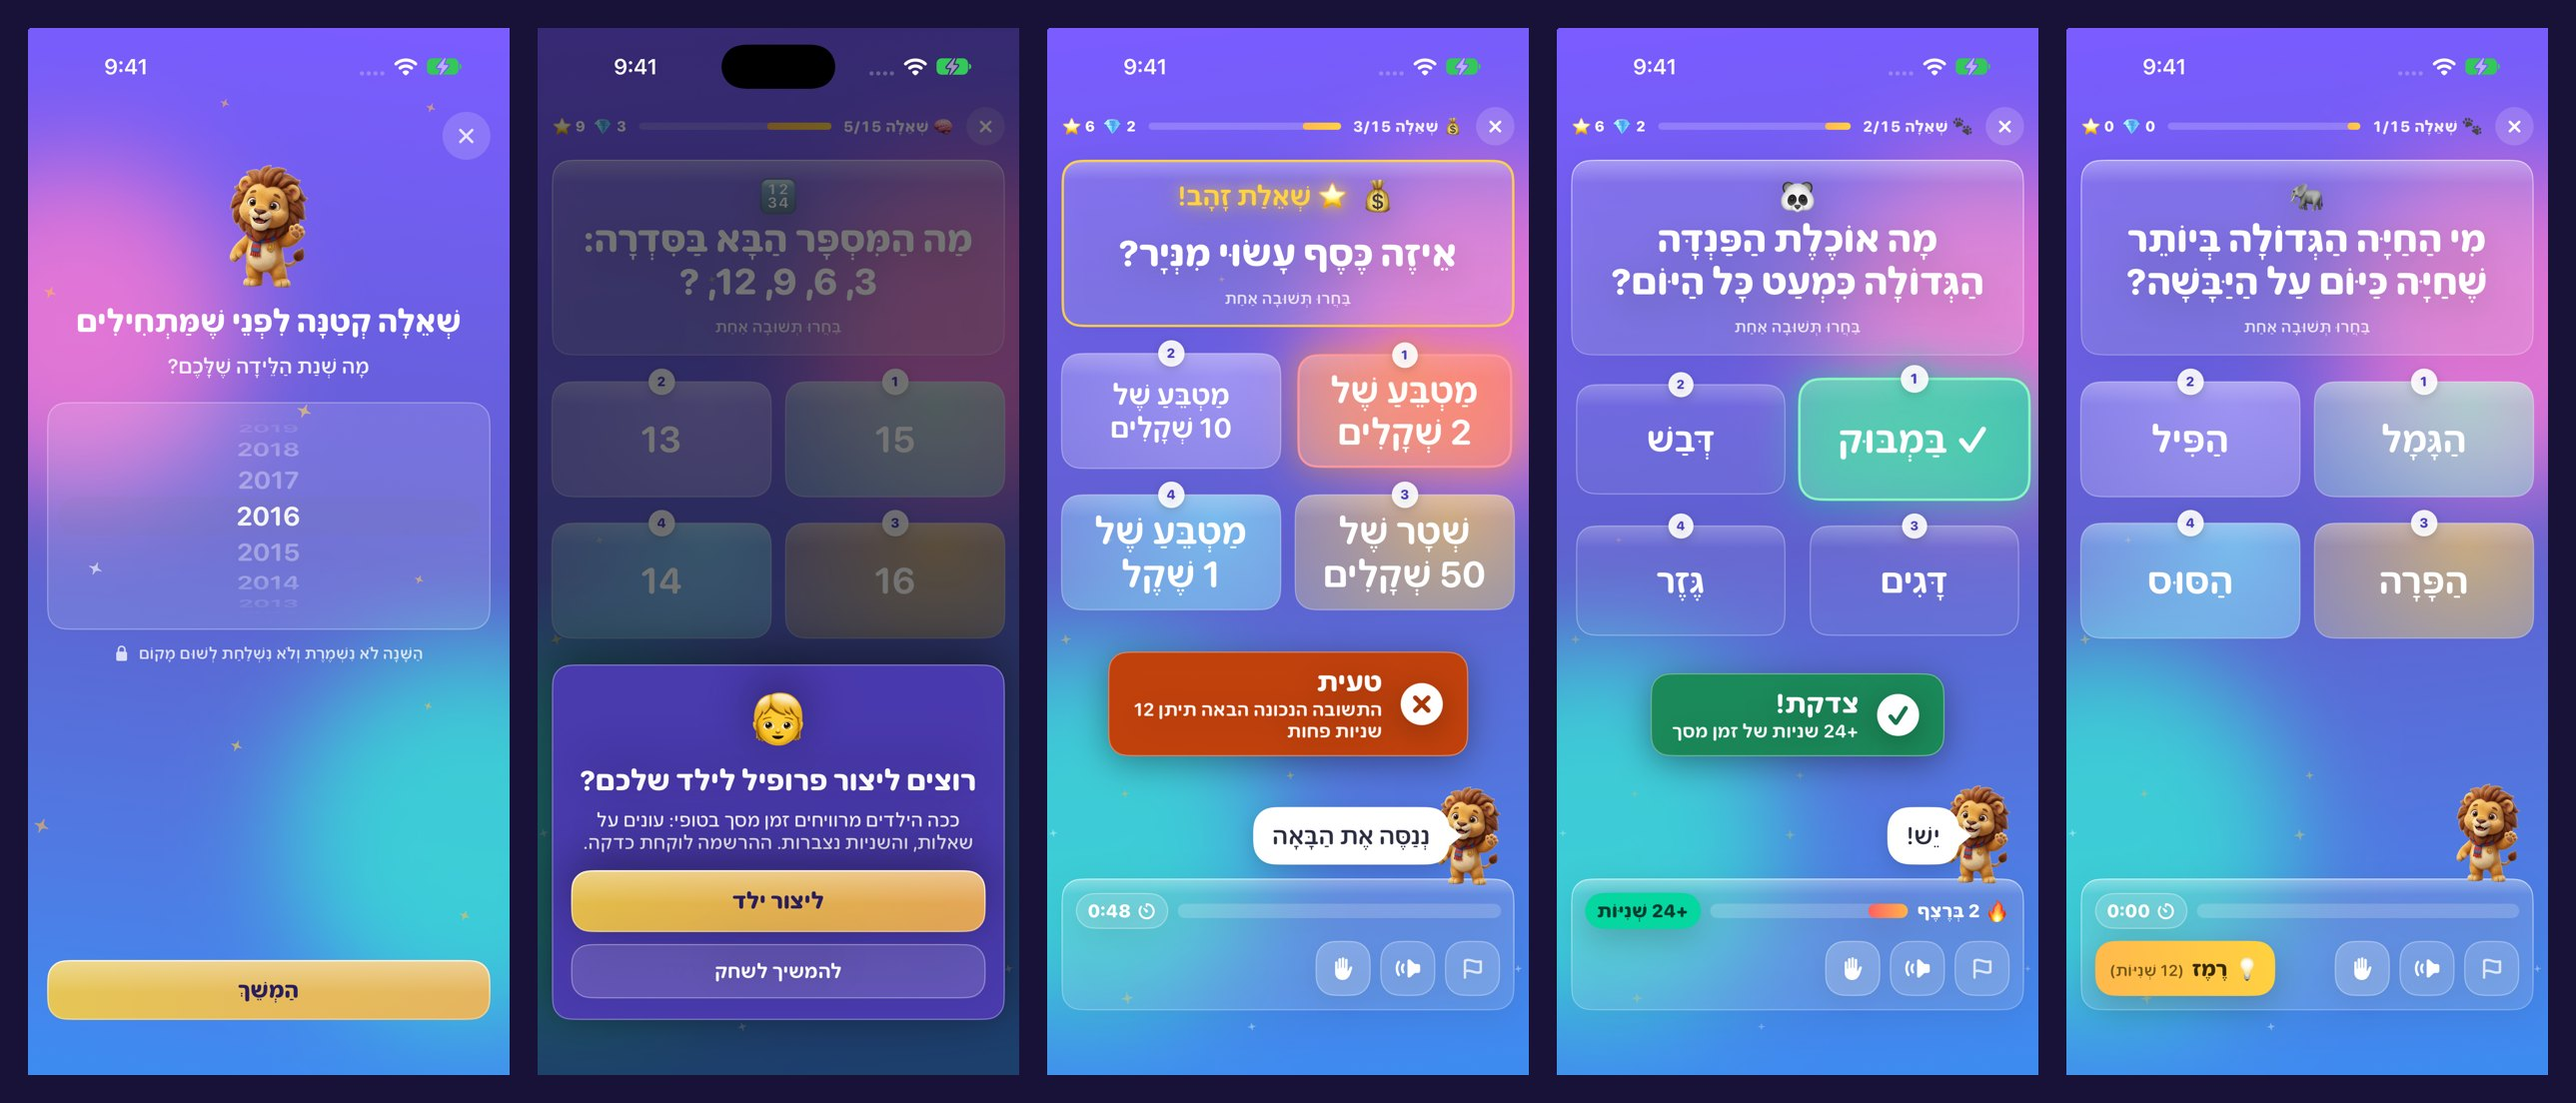
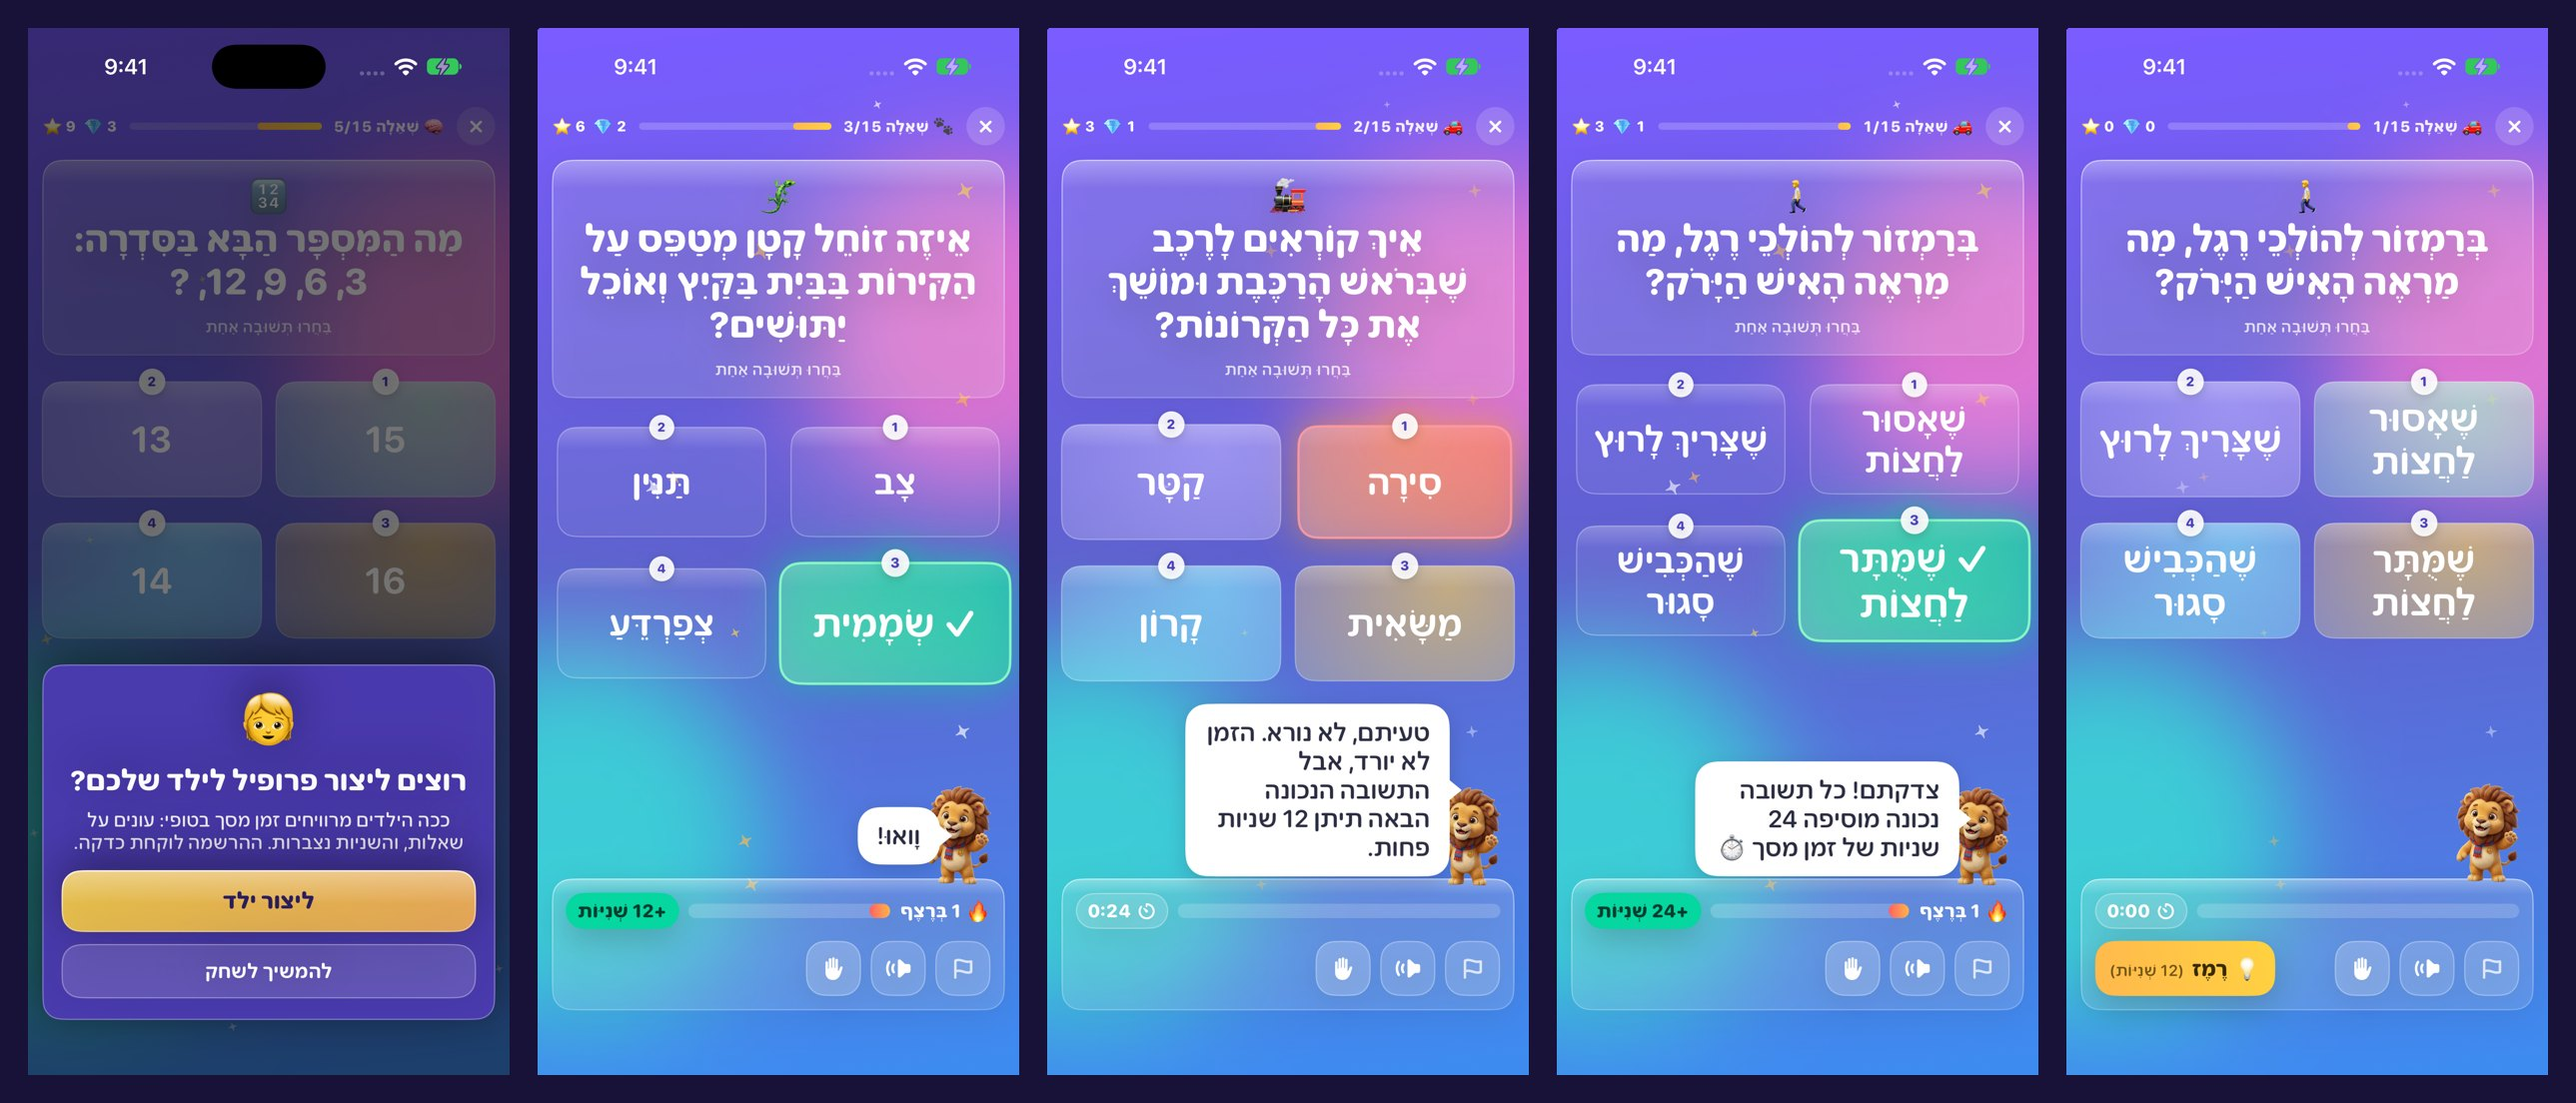
🎬 כניסה ראשונה: במקום כרטיס ירוק/אדום, טופי עצמו מסביר — רק בפעם הראשונה שצודקים ובפעם הראשונה שטועים (רני)
"צדקתם! כל תשובה נכונה מוסיפה 24 שניות של זמן מסך" / "טעיתם, לא נורא. הזמן לא יורד, אבל התשובה הנכונה
הבאה תיתן 12 שניות פחות." — בבועת הדיבור שלו, במקום "יש!" / "כמעט!". מהפעם השנייה הוא מדבר כמו במשחק האמיתי.

diff --git a/ChildTime/Views/QuestionRunnerView.swift b/ChildTime/Views/QuestionRunnerView.swift
@@ -424,36 +424,31 @@ struct QuestionRunnerView: View {
                 dismiss()
             }
         }
-        // 🎬 First run (see `DemoTour`): every answer says what it was, and
-        // what it did to the seconds — in plain words, for the parent.
-        .overlay(alignment: .bottom) {
-            if let note = firstRunNote {
-                FirstRunAnswerNote(correct: note.correct, seconds: note.seconds)
-                    .padding(.bottom, 232)
-                    .transition(.scale(scale: 0.85).combined(with: .opacity))
-                    .allowsHitTesting(false)
-            }
-        }
     }
 
-    private struct FirstRunNote: Equatable { let correct: Bool, seconds: Int, id: Int }
-    @State private var firstRunNote: FirstRunNote?
-    @State private var firstRunNoteID = 0
-
-    /// `seconds`: what a right answer really paid, or what a wrong one took off
-    /// the next right answer (the clock itself never goes down).
+    /// 🎬 First run (see `DemoTour`): the FIRST right answer and the FIRST
+    /// wrong one are explained by Tofy himself, in his own speech bubble, in
+    /// place of "יֵשׁ!" / "כִּמְעַט!" — to the parent, so without niqqud. After
+    /// that he talks exactly as he does in the real game (Rani).
+    /// `seconds`: what the right answer really paid, or what the wrong one
+    /// takes off the next right answer (the clock itself never goes down).
     private func firstRunFeedback(correct: Bool, seconds: Int) {
         let tour = DemoTour.shared
         guard tour.active, tour.firstRunQuiz else { return }
-        firstRunNoteID += 1
-        let id = firstRunNoteID
-        withAnimation(.spring(response: 0.35, dampingFraction: 0.75)) {
-            firstRunNote = FirstRunNote(correct: correct, seconds: seconds, id: id)
-        }
-        DispatchQueue.main.asyncAfter(deadline: .now() + 1.7) {
-            if firstRunNote?.id == id { withAnimation(.easeOut(duration: 0.3)) { firstRunNote = nil } }
-        }
         tour.noteAnswer()
+        guard tour.firstTime(correct ? .right : .wrong) else { return }
+        let line: String
+        if correct {
+            line = seconds > 0 ? tr("צדקתם! כל תשובה נכונה מוסיפה \(seconds) שניות של זמן מסך ⏱") : tr("צדקתם!")
+        } else {
+            line = seconds > 0 ? tr("טעיתם, לא נורא. הזמן לא יורד, אבל התשובה הנכונה הבאה תיתן \(seconds) שניות פחות.")
+                               : tr("טעיתם, לא נורא. הזמן שנצבר לא יורד.")
+        }
+        // A beat later: this answer's ordinary line is set further down the
+        // same function, and this one is the one to stay.
+        DispatchQueue.main.async {
+            if correct { companion.cheer(line) } else { companion.console(line) }
+        }
     }
 
     // MARK: - Background

diff --git a/ChildTime/Views/DemoTourViews.swift b/ChildTime/Views/DemoTourViews.swift
@@ -235,9 +235,10 @@ struct DemoTourRoot: View {
 // MARK: - 🎬 First run: straight into the questions
 //
 // Rani's final shape (2026-10-12): a parent who has just installed Tofy lands
-// on Tofy Time's questions. Each answer is named — "צדקת" / "טעית" — with what
-// it did to the seconds; after four answers (then every five) one question:
-// "ליצור ילד" or "להמשיך לשחק". These speak to the parent: no niqqud.
+// on Tofy Time's questions. The first right answer and the first wrong one
+// are explained by Tofy himself, in his speech bubble (see the quiz); after
+// four answers (then every five) one question: "ליצור ילד" or "להמשיך לשחק".
+// These speak to the parent: no niqqud.
 
 /// The whole first run: the quiz, and the question over it.
 struct FirstRunQuiz: View {
@@ -263,45 +264,6 @@ struct FirstRunQuiz: View {
                     }
                     .animation(.easeOut(duration: 0.22), value: tour.askToCreate)
             }
-    }
-}
-
-/// "צדקת! +24 שניות" / "טעית" — over the quiz for a moment, after every answer.
-struct FirstRunAnswerNote: View {
-    let correct: Bool
-    /// What a right answer paid — or what a wrong one took off the next right
-    /// answer (the clock itself never goes down). 0 = nothing either way.
-    let seconds: Int
-
-    private var detail: String {
-        if correct {
-            return seconds > 0 ? tr("+\(seconds) שניות של זמן מסך") : tr("הפעם בלי שניות נוספות")
-        }
-        return seconds > 0 ? tr("התשובה הנכונה הבאה תיתן \(seconds) שניות פחות") : tr("הפעם בלי שניות")
-    }
-
-    var body: some View {
-        HStack(spacing: 12) {
-            Image(systemName: correct ? "checkmark.circle.fill" : "xmark.circle.fill")
-                .font(.system(size: 34, weight: .bold))
-                .foregroundStyle(.white)
-            VStack(alignment: .leading, spacing: 1) {
-                Text(correct ? tr("צדקת!") : tr("טעית"))
-                    .font(.system(size: 22, weight: .heavy, design: .rounded))
-                Text(detail)
-                    .font(.system(size: 15, weight: .bold, design: .rounded))
-                    .opacity(0.95)
-                    .fixedSize(horizontal: false, vertical: true)
-            }
-            .foregroundStyle(.white)
-        }
-        .padding(.horizontal, 18)
-        .padding(.vertical, 12)
-        .background(RoundedRectangle(cornerRadius: 16, style: .continuous)
-            .fill(correct ? Color(hex: "1B8A5A") : Color(hex: "C2410C")))
-        .overlay(RoundedRectangle(cornerRadius: 16, style: .continuous).strokeBorder(.white.opacity(0.35), lineWidth: 1))
-        .shadow(color: .black.opacity(0.35), radius: 14, y: 6)
-        .padding(.horizontal, 20)
     }
 }
 

diff --git a/ChildTime/Models/DemoTour.swift b/ChildTime/Models/DemoTour.swift
@@ -63,10 +63,11 @@ final class DemoTour: ObservableObject {
     // MARK: - First run: straight into the questions
 
     /// Rani's final shape (2026-10-12, after four others): a parent who has
-    /// just installed Tofy lands straight on Tofy Time's questions. Every
-    /// answer says "צדקת" or "טעית" and what it did to the seconds; after four
-    /// answers they are asked whether to create a child's profile — "ליצור
-    /// ילד" or "להמשיך לשחק" — and, if they play on, again every five.
+    /// just installed Tofy lands straight on Tofy Time's questions. The first
+    /// time they are right, and the first time they are wrong, Tofy himself
+    /// explains what that did to the seconds; after four answers they are
+    /// asked whether to create a child's profile — "ליצור ילד" or "להמשיך
+    /// לשחק" — and, if they play on, again every five.
     @Published private(set) var firstRunQuiz = UserDefaults.standard.bool(forKey: DemoTour.quizKey)
     /// The question itself, over the quiz.
     @Published var askToCreate = false
@@ -76,6 +77,16 @@ final class DemoTour: ObservableObject {
     private static let quizKey = "demoTour.firstRunQuiz"
     static let firstAskAfter = 4
     static let askAgainEvery = 5
+
+    /// The two moments Tofy explains — each once per first run.
+    enum Explained { case right, wrong }
+    private var explained: Set<Explained> = []
+
+    /// True the first time only: Tofy explains it now, and never again.
+    func firstTime(_ what: Explained) -> Bool {
+        guard active, firstRunQuiz else { return false }
+        return explained.insert(what).inserted
+    }
 
     /// After the 4th answer, then the 9th, the 14th…
     static func asks(afterAnswer n: Int) -> Bool {
@@ -153,6 +164,7 @@ final class DemoTour: ObservableObject {
         invite = nil
         askToCreate = false
         answered = 0
+        explained = []
         active = true
     }
 
@@ -239,6 +251,7 @@ final class DemoTour: ObservableObject {
         askToCreate = false
         kidID = nil
         answered = 0
+        explained = []
         firstRunQuiz = false
         UserDefaults.standard.removeObject(forKey: Self.quizKey)
         let ids = Set(ProfileStore.shared.profiles.map(\.id)).union(childIDs)

diff --git a/ChildTimeTests/DemoTourTests.swift b/ChildTimeTests/DemoTourTests.swift
@@ -213,6 +213,19 @@ struct DemoTourTests {
         #expect(tour.askToCreate == false)
     }
 
+    @Test func tofyExplainsTheFirstRightAndTheFirstWrongAnswerOnly() throws {
+        try #require(hostIsBlank && !DemoTour.isOn, "needs a simulator with no family on it and no tour in progress — reinstall the app first")
+        let tour = DemoTour.shared
+        #expect(tour.firstTime(.right) == false)              // outside a first run: he talks as always
+        let sawWelcome = ParentSettings.shared.hasSeenWelcome
+        tour.startFirstRun()
+        defer { tour.end(signUp: false); ParentSettings.shared.hasSeenWelcome = sawWelcome }
+        #expect(tour.firstTime(.right))
+        #expect(tour.firstTime(.right) == false)              // …and from then on, "יֵשׁ!" as in the real game
+        #expect(tour.firstTime(.wrong))
+        #expect(tour.firstTime(.wrong) == false)
+    }
+
     @Test func aCrashHalfWayOutIsFinishedAtTheNextLaunch() throws {
         try #require(hostIsBlank && !DemoTour.isOn, "needs a simulator with no family on it and no tour in progress — reinstall the app first")
         // The state such a crash leaves: the flag already off, the children
